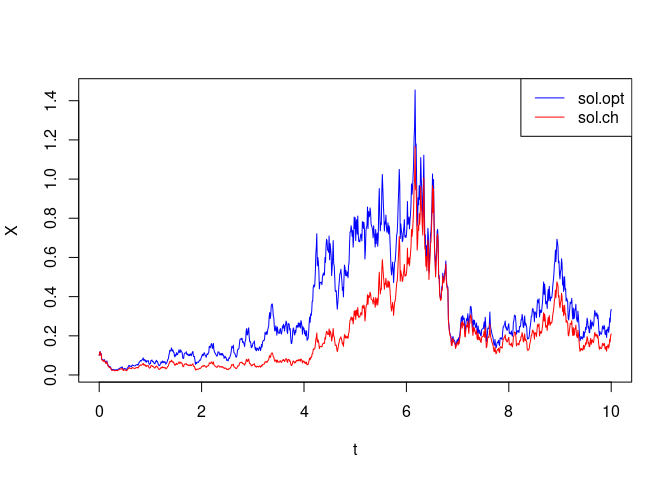
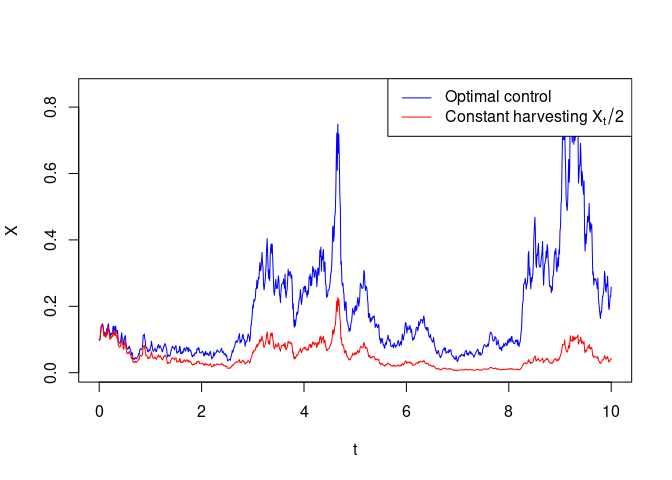
Update README

diff --git a/README.md b/README.md
@@ -22,6 +22,12 @@ require(SDEtools)
     ## Loading required package: SDEtools
 
 ``` r
+require(latex2exp)
+```
+
+    ## Loading required package: latex2exp
+
+``` r
 sigma <- 1
 T <- 10
 
@@ -48,7 +54,7 @@ J.ch <- mean(sqrt(0.5*sol.opt))
 
 plot(tvec, sol.opt[,2], type="l", xlab="t", ylab="X", col="blue", lty=1, ylim=range(c(sol.opt[,2], sol.ch[,2])))
 lines(tvec, sol.ch[,2], col="red", lty=1)
-legend("topright", legend=c("sol.opt", "sol.ch"), col=c("blue", "red"), lty=c(1,1))
+legend("topright", legend=c("Optimal control", TeX("Constant harvesting $X_t/2$")), col=c("blue", "red"), lty=c(1,1))
 ```
 
 ![](README_files/figure-markdown_github/unnamed-chunk-1-1.png)
